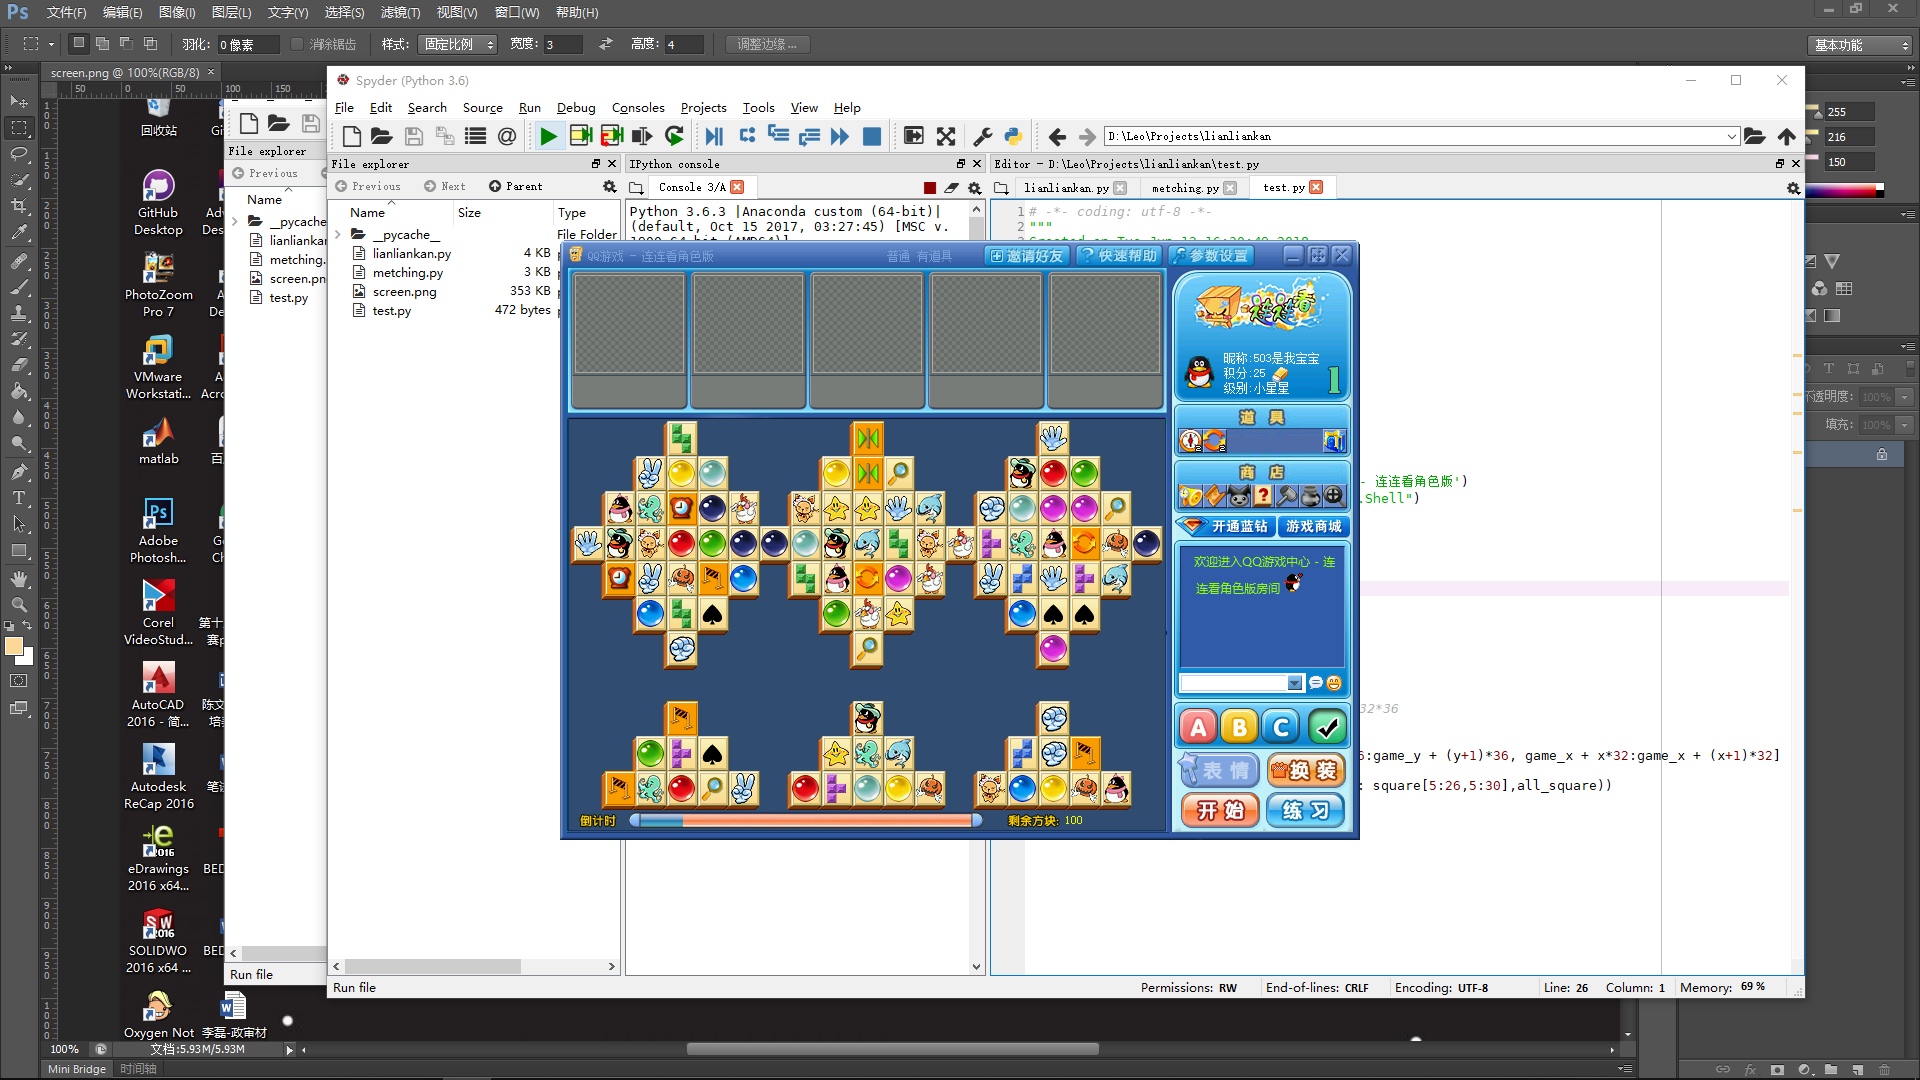
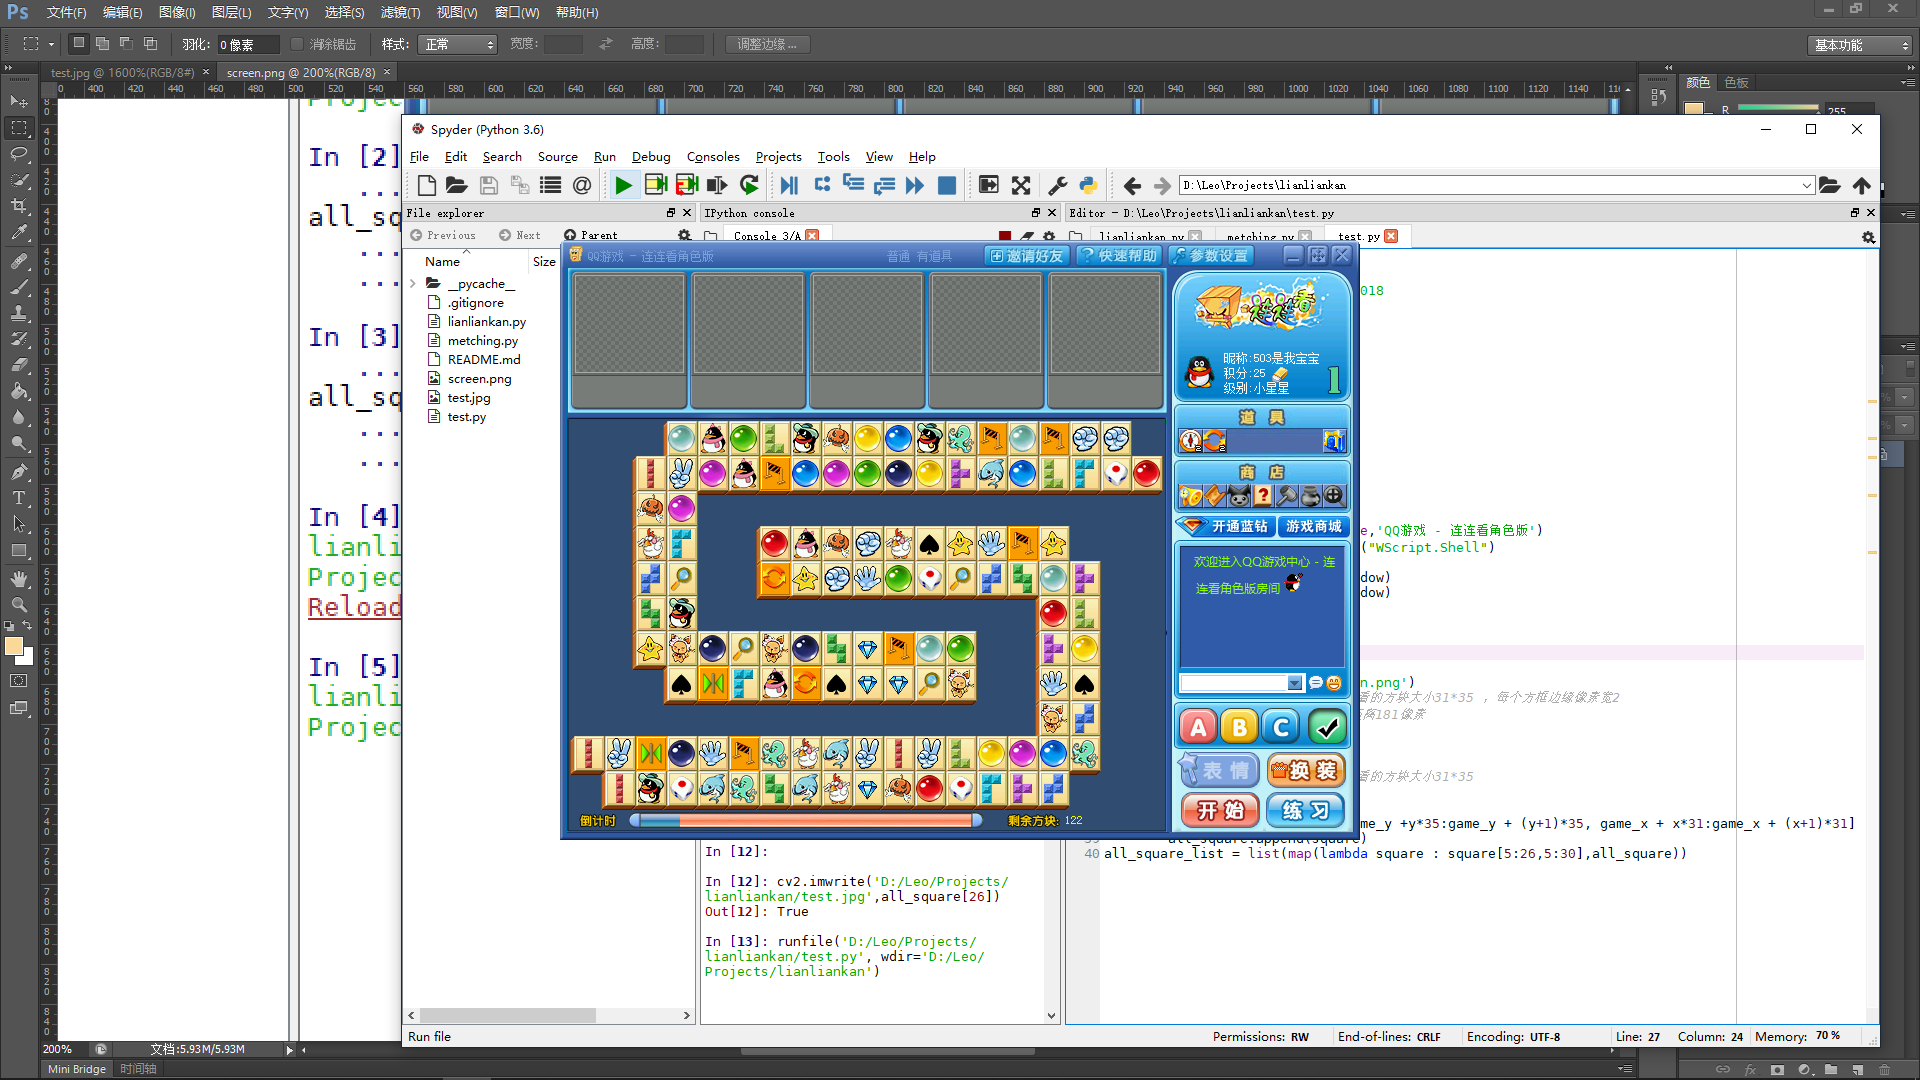
精确小方块边缘宽度，确定游戏区域大小

diff --git a/test.py b/test.py
@@ -27,13 +27,24 @@ game_pos = (pos[0],pos[1])
 scim = ImageGrab.grab()
 scim.save('screen.png')
 screen_image = cv2.imread('screen.png')
-
+#游戏内容方块横纵个数 19*11  ,qq连连看的方块大小31*35 ，每个方框边缘像素宽2
+#方块连接区域距离左边距离14像素，顶部距离181像素
 game_x = game_pos[0] + 14
-game_y = game_pos[1] + 180
+game_y = game_pos[1] + 181
 all_square = []
-#游戏内容方块横纵个数 19*11  ,qq连连看的方块大小32*36 
+#游戏内容方块横纵个数 19*11  ,qq连连看的方块大小31*35 
 for x in range(0,19):
     for y in range(0,11):
-        square = screen_image[game_y +y*36:game_y + (y+1)*36, game_x + x*32:game_x + (x+1)*32]
+        square = screen_image[game_y +y*35:game_y + (y+1)*35, game_x + x*31:game_x + (x+1)*31]
         all_square.append(square)
+#注意，这里的小方块切除边缘，是先y轴，再x轴的
 all_square_list = list(map(lambda square : square[5:26,5:30],all_square))
+
+def isImageExist(img, img_list):
+    for existed_img in img_list:
+        b = np.subtract(existed_img,img)
+        if not np.any(b):
+            return True
+        else:
+            continue
+    return False

diff --git a/lianliankan.py b/lianliankan.py
@@ -35,14 +35,17 @@ def getScreenImage():
     scim.save('screen.png')
     return cv2.imread('screen.png')
 
+
+
+#方块连接区域距离左边距离14像素，顶部距离181像素
 def getAllSquare(screen_image,game_pos):
     game_x = game_pos[0] + 9
     game_y = game_pos[1] + 180
     all_square = []
-#游戏内容方块横纵个数 19*11  ,qq连连看的方块大小36*36 
+#游戏内容方块横纵个数 19*11  ,qq连连看的方块大小31*35 ，每个方框边缘像素宽2
     for x in range(0,19):
         for y in range(0,11):
-            square = screen_image[game_y +y*35:game_y + (y+1)*35, game_x + x*35:game_x + (x+1)*35]
+            square = screen_image[game_y +y*35:game_y + (y+1)*35, game_x + x*31:game_x + (x+1)*31]
             all_square.append(square)
     return list(map(lambda square : square[5:26,5:30],all_square))
 '''

diff --git a/README.md b/README.md
@@ -1,0 +1,1 @@
+第一次提交整体框架
